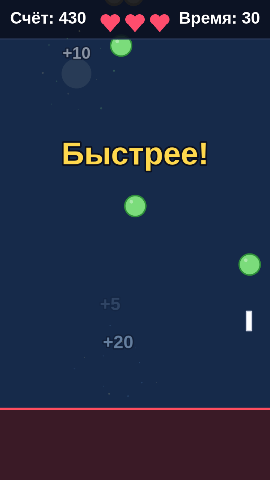
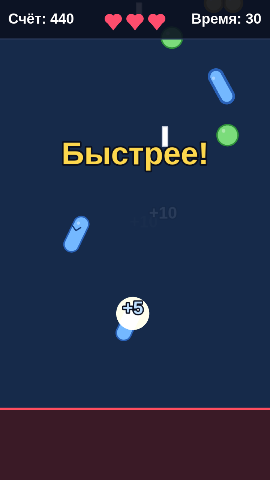
Шаг 1б: подложка вмещает длинные числа, «+очки» не наезжают на счёт, таблица замеров
- HUD: шрифт 38, сердца компактнее — «Score: 99999» и «Время: 150» не касаются сердец (замерена ширина текста)
- «+очки» не поднимаются выше подложки со счётом
- проверка скорости споры больше не требует ×1,8 (спора намеренно замедлена до ×1,4 от базы)
- CLAUDE.md: таблица замеров по трём независимым замерам (по 10 партий на профиль), что не выполнено и почему
- скриншоты бота на 10/30/60 с (qa/screenshots/stage-1b/) и проверки (qa/screenshots/stage-1b-qa/) — с итоговой подложкой

Claude-Session: https://claude.ai/code/session_01H6T78oA2QRe2wJXbdG9WVC

diff --git a/src/scenes/GameScene.ts b/src/scenes/GameScene.ts
@@ -401,11 +401,12 @@ export class GameScene extends Phaser.Scene {
     // Тёмная подложка под счёт, сердца и время: бактерии у верхнего края не мешают их читать
     this.add.rectangle(W / 2, HUD_PLATE_H / 2, W, HUD_PLATE_H, 0x0b1020, 0.9).setDepth(4);
     this.add.rectangle(W / 2, HUD_PLATE_H, W, 3, 0x2a3a5c, 1).setDepth(4);
+    // Шрифт 38: «Score: 12000» и «Время: 150» помещаются по бокам от сердец
     this.scoreText = this.add
-      .text(24, 20, t('score', { n: 0 }), this.textStyle(44))
+      .text(20, 26, t('score', { n: 0 }), this.textStyle(38))
       .setDepth(5);
     this.timeText = this.add
-      .text(W - 24, 20, t('time', { n: 0 }), this.textStyle(44))
+      .text(W - 20, 26, t('time', { n: 0 }), this.textStyle(38))
       .setOrigin(1, 0)
       .setDepth(5);
     this.hearts = this.add.graphics().setDepth(5);
@@ -415,15 +416,15 @@ export class GameScene extends Phaser.Scene {
   /** Жизни: сердечки по центру сверху; потерянные — тёмные. */
   private drawHearts(): void {
     const total = CONFIG.lives.start;
-    const gap = 66;
+    const gap = 58;
     this.hearts.clear();
     for (let i = 0; i < total; i++) {
       const cx = W / 2 + (i - (total - 1) / 2) * gap;
-      const cy = 58;
+      const cy = 56;
       this.hearts.fillStyle(i < this.lives ? COLORS.heart : COLORS.heartLost, 1);
-      this.hearts.fillCircle(cx - 12, cy - 6, 14);
-      this.hearts.fillCircle(cx + 12, cy - 6, 14);
-      this.hearts.fillTriangle(cx - 25, cy - 1, cx + 25, cy - 1, cx, cy + 28);
+      this.hearts.fillCircle(cx - 10, cy - 6, 13);
+      this.hearts.fillCircle(cx + 10, cy - 6, 13);
+      this.hearts.fillTriangle(cx - 22, cy - 2, cx + 22, cy - 2, cx, cy + 25);
     }
   }
 

diff --git a/src/effects.ts b/src/effects.ts
@@ -65,6 +65,8 @@ export class Effects {
   /** Всплывающая надпись «+очки». */
   popup(x: number, y: number, points: number, kind: BacteriumKind): void {
     this.popups++;
+    // Не выше 170 px от верха поля: иначе надпись наедет на подложку со счётом, сердцами и временем
+    y = Math.max(y, 170);
     const text = this.scene.add
       .text(x, y, t('scorePopup', { n: points }), {
         fontFamily: FONT,
@@ -78,7 +80,7 @@ export class Effects {
       .setDepth(9);
     this.scene.tweens.add({
       targets: text,
-      y: y - 90,
+      y: y - 70,
       alpha: 0,
       duration: CONFIG.feedback.popupMs,
       ease: 'Cubic.easeOut',
